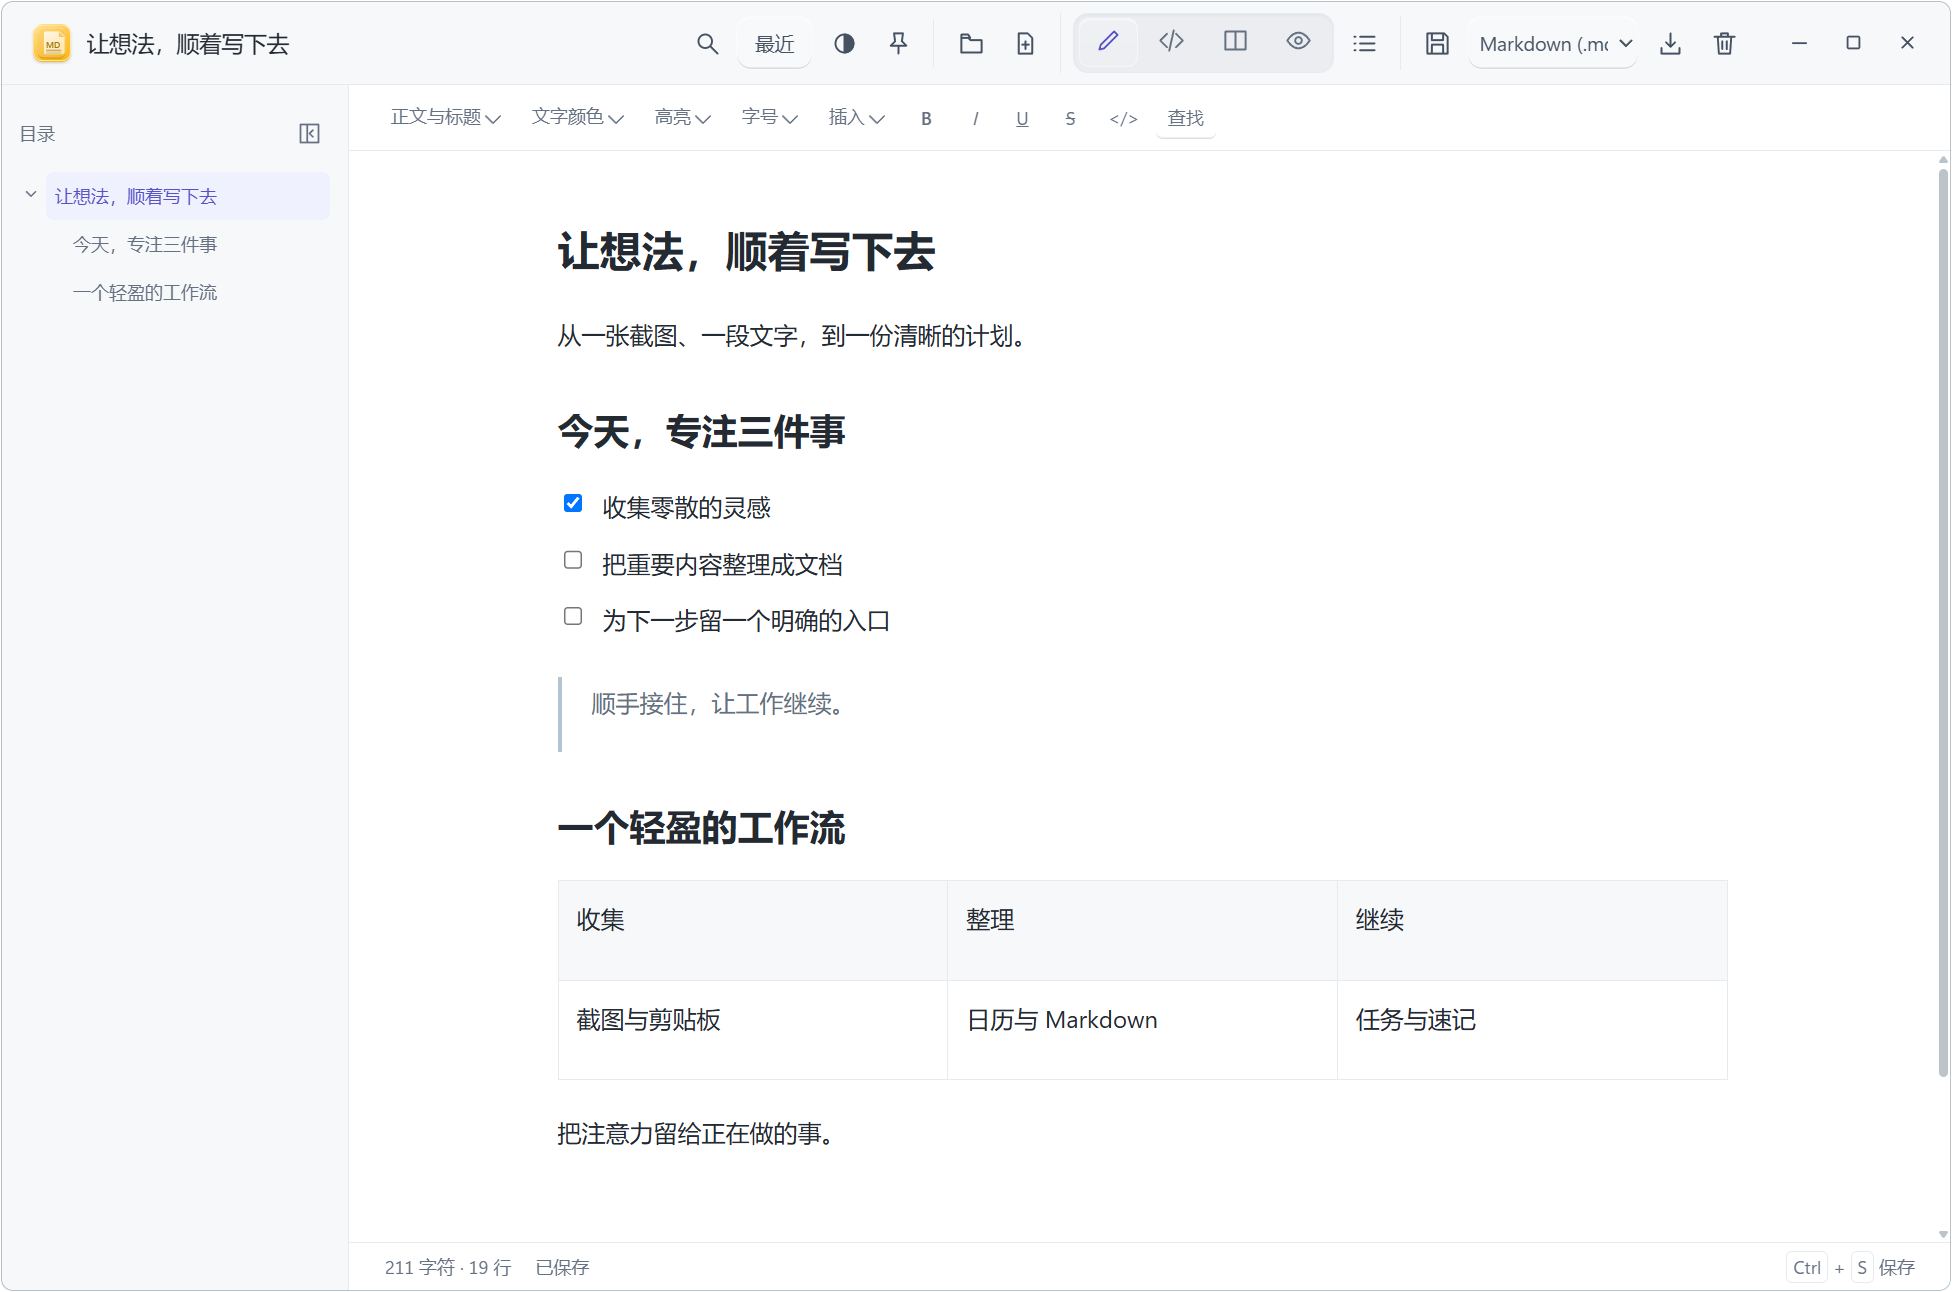
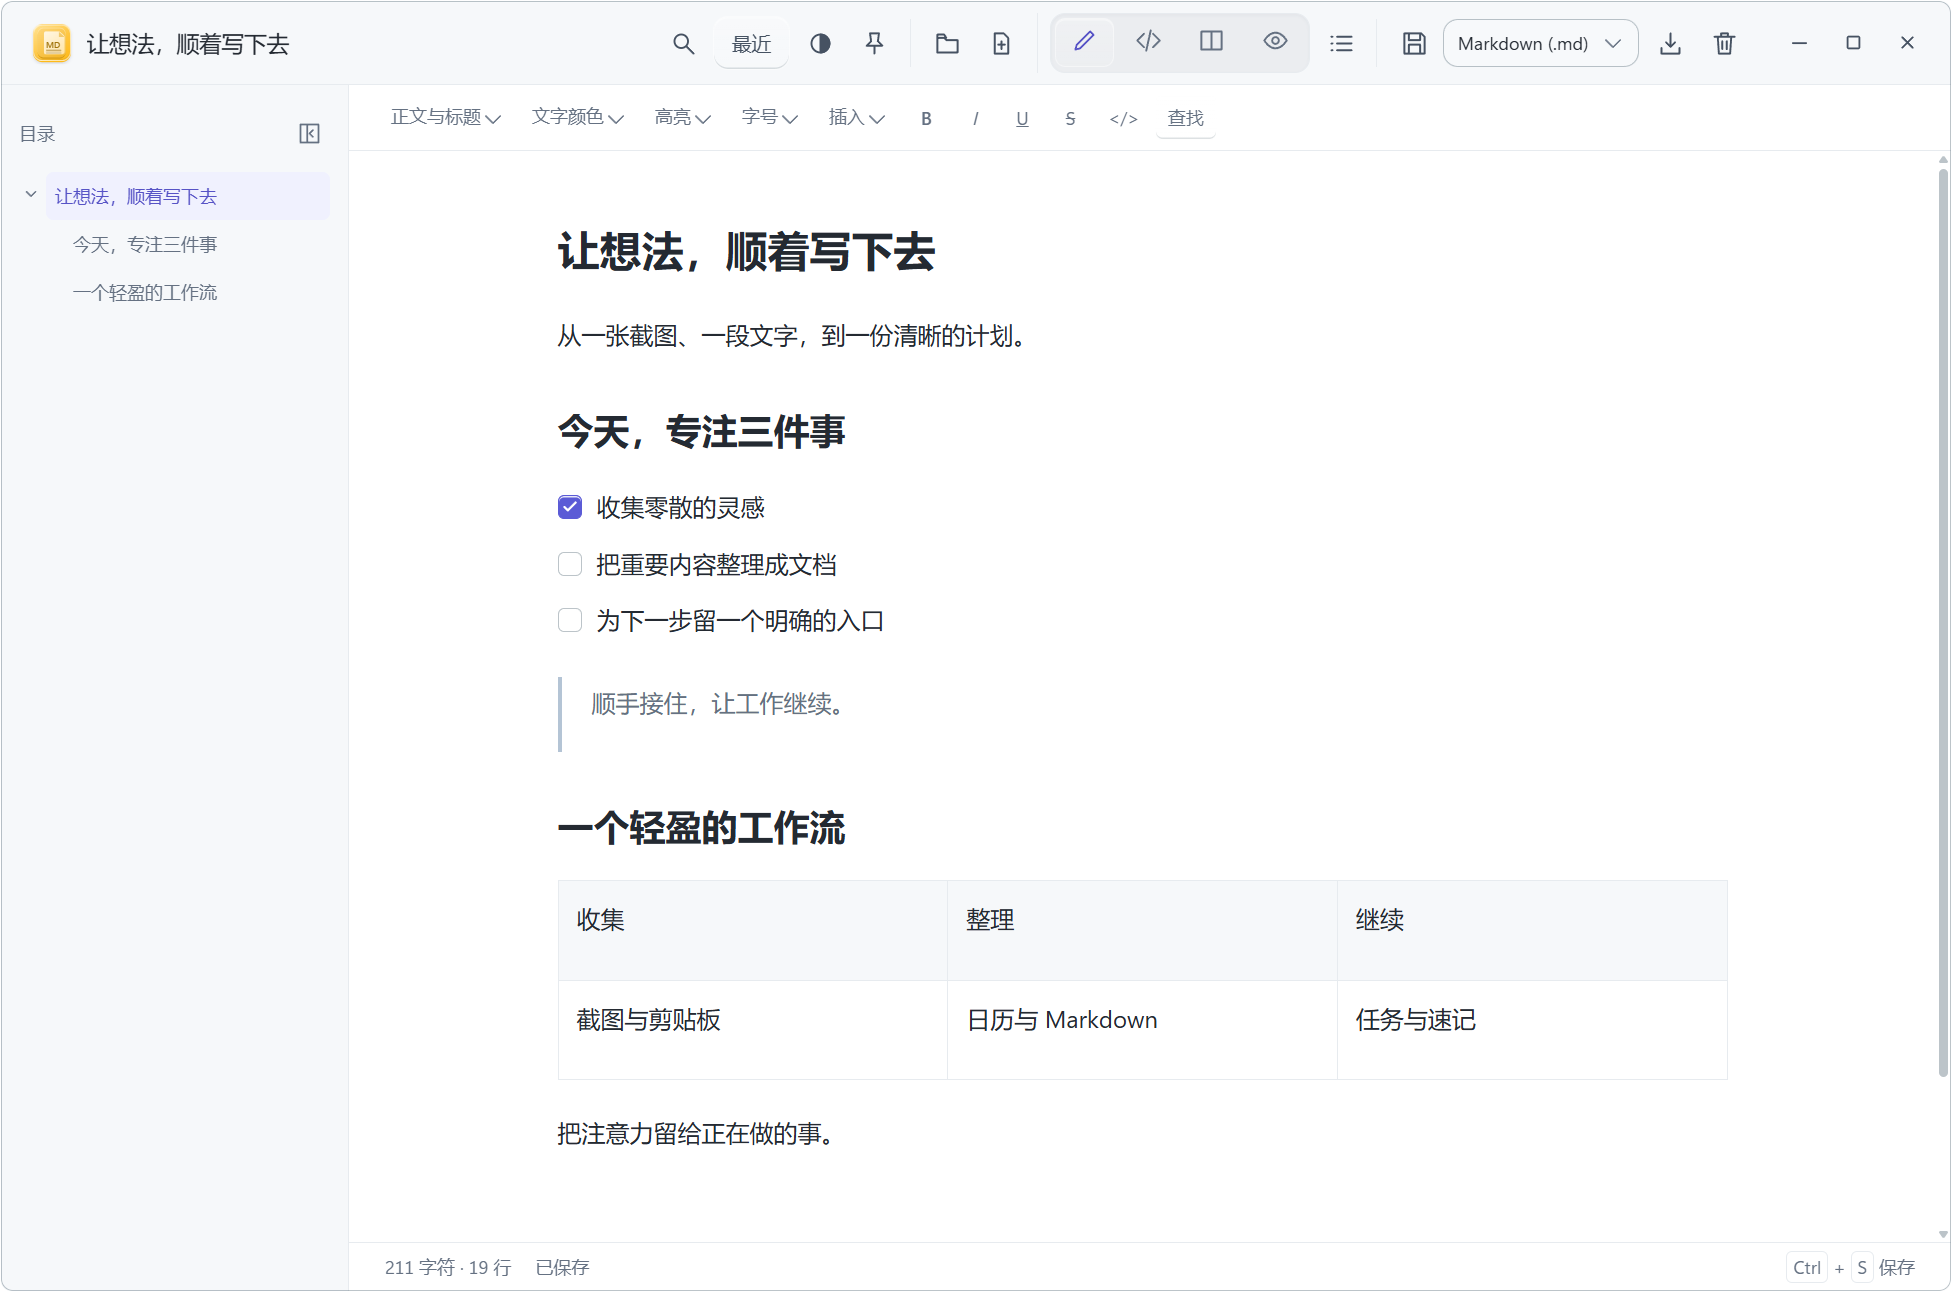
Update Suira 0.2.34 controls and product showcase

diff --git a/README.md b/README.md
@@ -3,7 +3,7 @@
   <h1>随序 SUIRA</h1>
   <p><strong>顺手接住，让工作继续。</strong></p>
   <p>一个快捷键，接住桌面上的截图、文字与灵感。<br>从收集、整理到下一步，让常用工具自然衔接。</p>
-  <p>Windows 11 x64 · 本地优先 · 当前版本 0.2.33</p>
+  <p>Windows 11 x64 · 本地优先 · 当前版本 0.2.34</p>
   <p><a href="https://github.com/huihui200739/suira-updates/releases/latest">下载最新版本</a> · <a href="#开始使用">开始使用</a> · <a href="CHANGELOG.md">版本更新</a> · <a href="https://github.com/huihui200739/suira-updates/issues">反馈问题</a></p>
 </div>
 
@@ -49,7 +49,7 @@
 
 ## 开始使用
 
-支持 **Windows 11 x64**，当前正式版 **0.2.33**。从 [最新版本](https://github.com/huihui200739/suira-updates/releases/latest) 下载 `Suira-0.2.33-x64.exe` 并安装；已有安装版可在悬浮板三点菜单选择 **检查更新 → 下载更新 → 保存草稿并重启更新**。覆盖更新保留本机内容、键位和设置。
+支持 **Windows 11 x64**，当前正式版 **0.2.34**。从 [最新版本](https://github.com/huihui200739/suira-updates/releases/latest) 下载 `Suira-0.2.34-x64.exe` 并安装；已有安装版可在悬浮板三点菜单选择 **检查更新 → 下载更新 → 保存草稿并重启更新**。覆盖更新保留本机内容、键位和设置。
 
 从托盘双击打开面板。全局快捷键默认关闭，可在设置中主动开启并调整冲突键位。
 

diff --git a/CHANGELOG.md b/CHANGELOG.md
@@ -1,5 +1,13 @@
 # 更新记录
 
+## 0.2.34 · 2026-11-05
+
+- 玻璃底层调整为 slate-6 的 42%，键帽提亮到 96% / 88%，选中态使用 Iris；深浅主题在明亮、暗色和杂乱背景下分层清晰。
+- 任务匣、剪贴板、工具箱、翻译结果与日历侧栏统一卡片阴影，深色主题降低高光并加深投影。
+- 全部 13 处下拉选择接入玻璃菜单，保留原生控件存值与既有事件，支持方向键、Enter、Esc、Home、End 和首字母跳转；复选框采用 Iris 勾选面。
+- 新增面板 160ms 缩放淡入、按键下沉、结果上滑与复制对勾反馈；显示流程不等待动效，所有窗口遵循减少动态效果设置。
+- 引入六级共享间距，并补充菜单键盘操作、原生合成六场景与面板动效开关配对测量。
+
 ## 0.2.33 · 2026-11-05
 
 - 强调色统一为 Radix Colors 3.0 Iris 明暗十二阶，主按钮使用 Iris 实色与白字，焦点环和选中态统一；工作台保留石墨导航栏。

diff --git a/docs/product/README.md b/docs/product/README.md
@@ -1,6 +1,6 @@
-# 当前产品界面 · 0.2.31
+# 当前产品界面 · 0.2.34
 
-处理轨迹更新为 0.2.31；其余图片为 0.2.30，相关页面在本版保持原样。图片来自当前源码启动的真实 Electron 页面，使用独立的临时资料、虚构文档、日程与剪贴板，不读取用户正文或剪贴板，不注册系统快捷键。
+本轮已按 0.2.34 刷新全部展示图，展示 Iris 选中态、提亮键帽、卡片阴影与玻璃控件。图片来自当前源码启动的真实 Electron 页面，使用独立的临时资料、虚构文档、日程与剪贴板，不读取用户正文或剪贴板，不注册系统快捷键。
 
 | 页面 | 截图 |
 | --- | --- |
